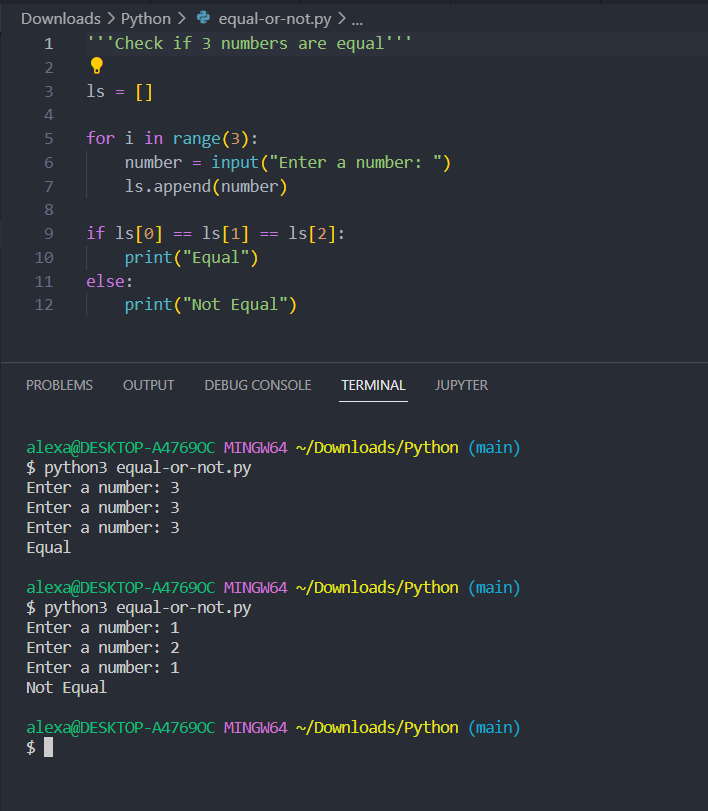
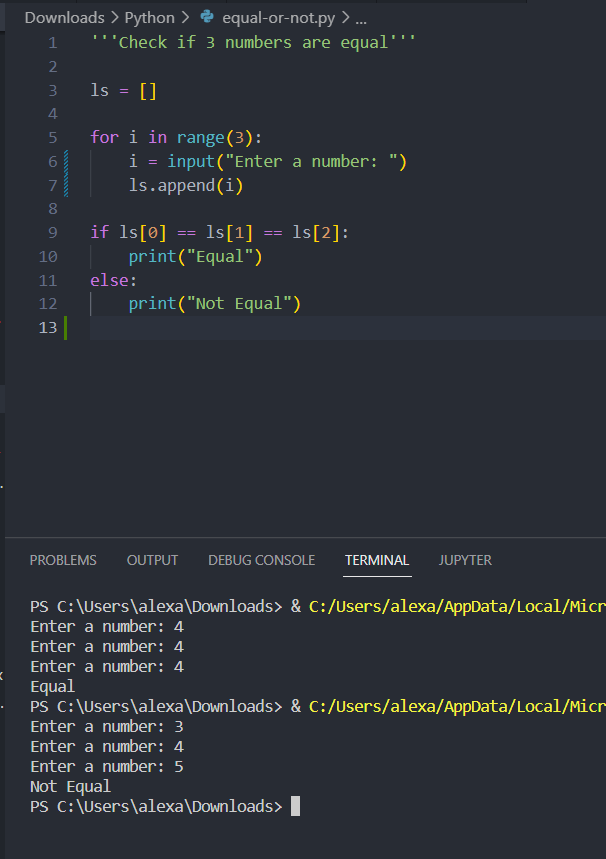
modifications

diff --git a/even-or-odd.py b/even-or-odd.py
@@ -1,14 +1,12 @@
-''' Check if a number is even or odd'''
+''' Check if a number is even or odd '''
 
-# input returns string, so we turn it into integer with int() function
+# input returns string, so we turn it into integer with int() function, so that we can compare it with another integer 
 number = int(input("Please enter a number between 1-100: \n"))
 
 if number > 100:
     print("Invalid input")
-
 else:
     if number % 2 == 0:
         print(f"Your number {number} is even.")
-
     else:
         print(f"Your number {number} is odd.")

diff --git a/max-min-value.py b/max-min-value.py
@@ -1,0 +1,22 @@
+''' Get Max and Min values '''
+
+list_of_numbers = []
+numbers_count = int(input("How many numbers do you want to compare? "))
+
+for i in range(numbers_count):
+    i = int(input("Type a number: "))
+    list_of_numbers.append(i)
+
+# if numbers_count == 0:
+# if len(list_of_numbers) == 0:
+if list_of_numbers == []:
+    print("None")
+else:
+    print(f"{max(list_of_numbers)} {min(list_of_numbers)}")
+   
+        
+
+
+
+
+

diff --git a/positive-negative-zero.py b/positive-negative-zero.py
@@ -1,10 +1,9 @@
-'''Print if the number is positive, negative or zero '''
+''' Tell if a number is positive, negative or zero '''
  
 number = int(input("enter a number: "))
 
 if number == 0:
     print("Zero")
-
 elif number > 0:
     print("Positive")
 else:

diff --git a/equal-or-not.py b/equal-or-not.py
@@ -3,8 +3,8 @@
 ls = []
 
 for i in range(3):
-    number = input("Enter a number: ")
-    ls.append(number)
+    i = input("Enter a number: ")
+    ls.append(i)
 
 if ls[0] == ls[1] == ls[2]:
     print("Equal")

diff --git a/find-in-dictionary.py b/find-in-dictionary.py
@@ -1,4 +1,4 @@
-""" Display the lastname of the second employee"""
+""" Display the last name of the second employee """
 
 d = {
   "employees":[{"firstName" : "John", "lastName" : "Doe"},
